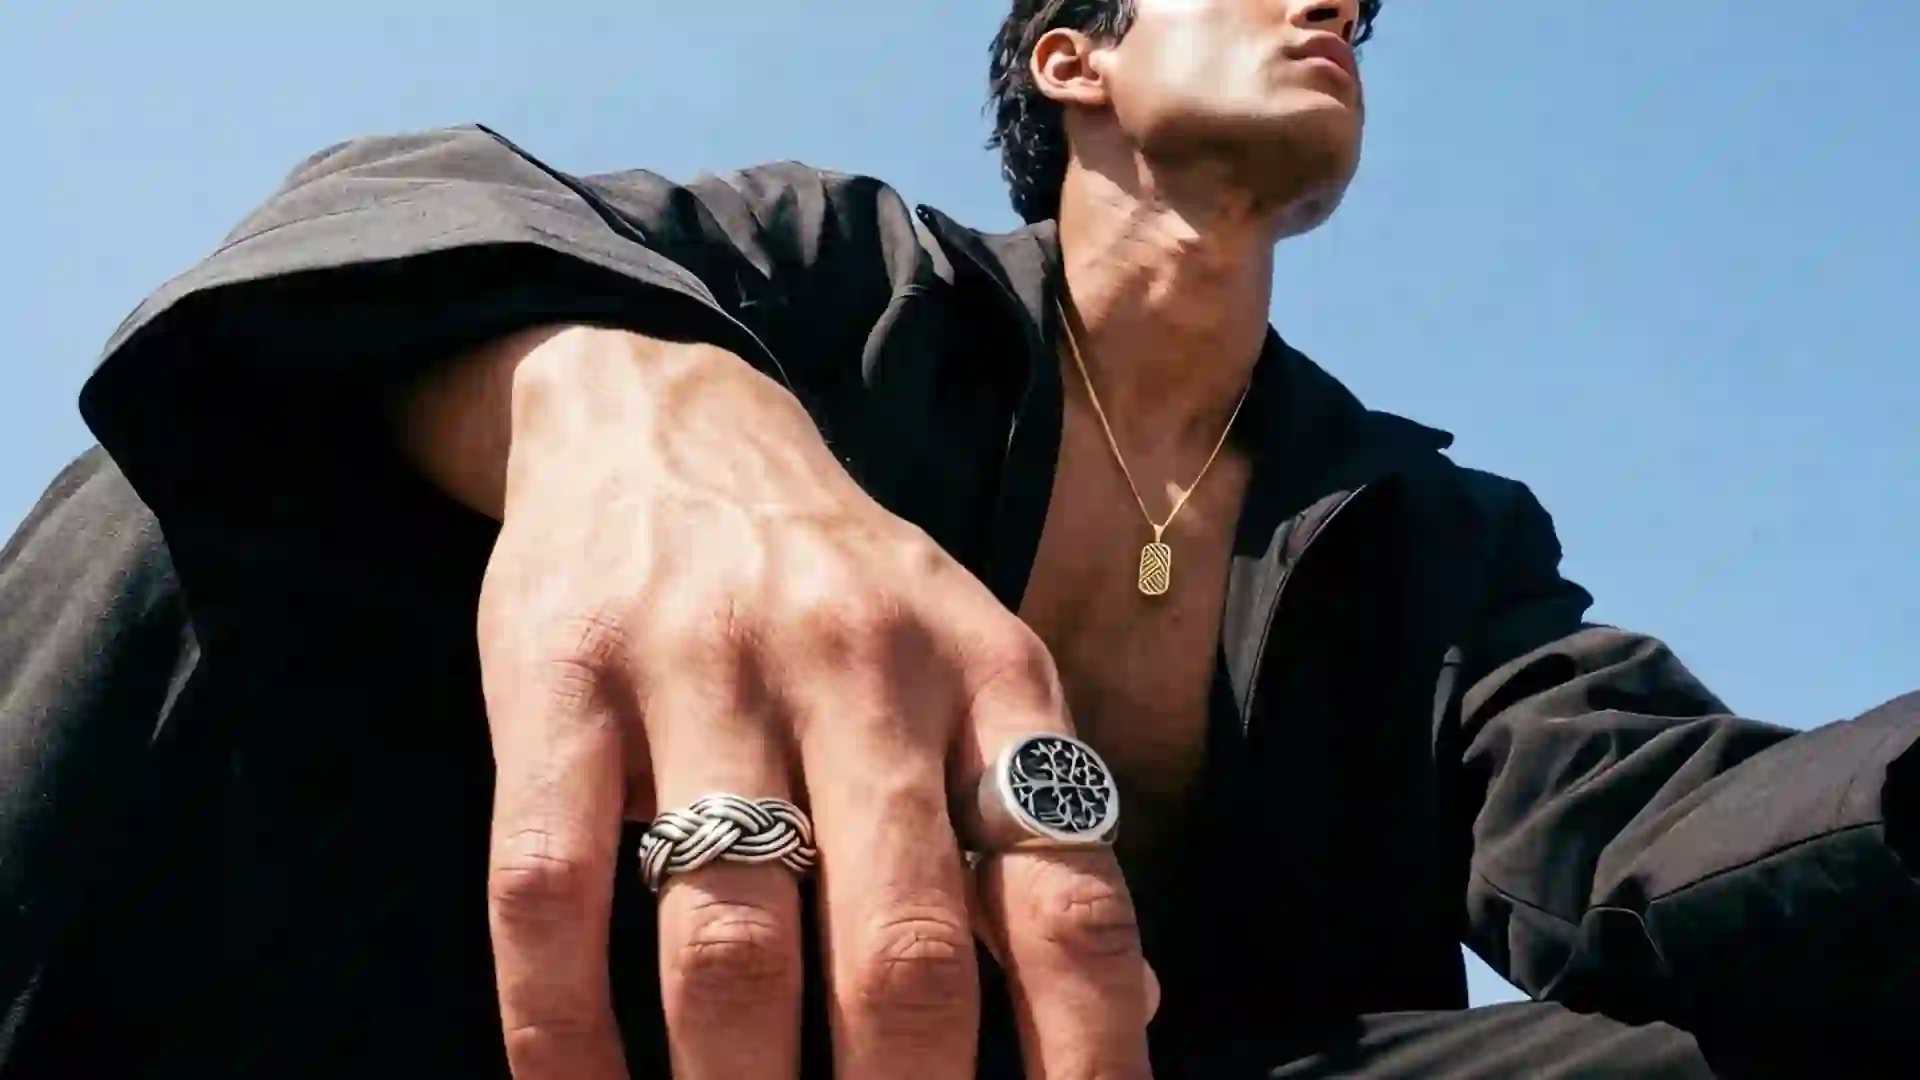
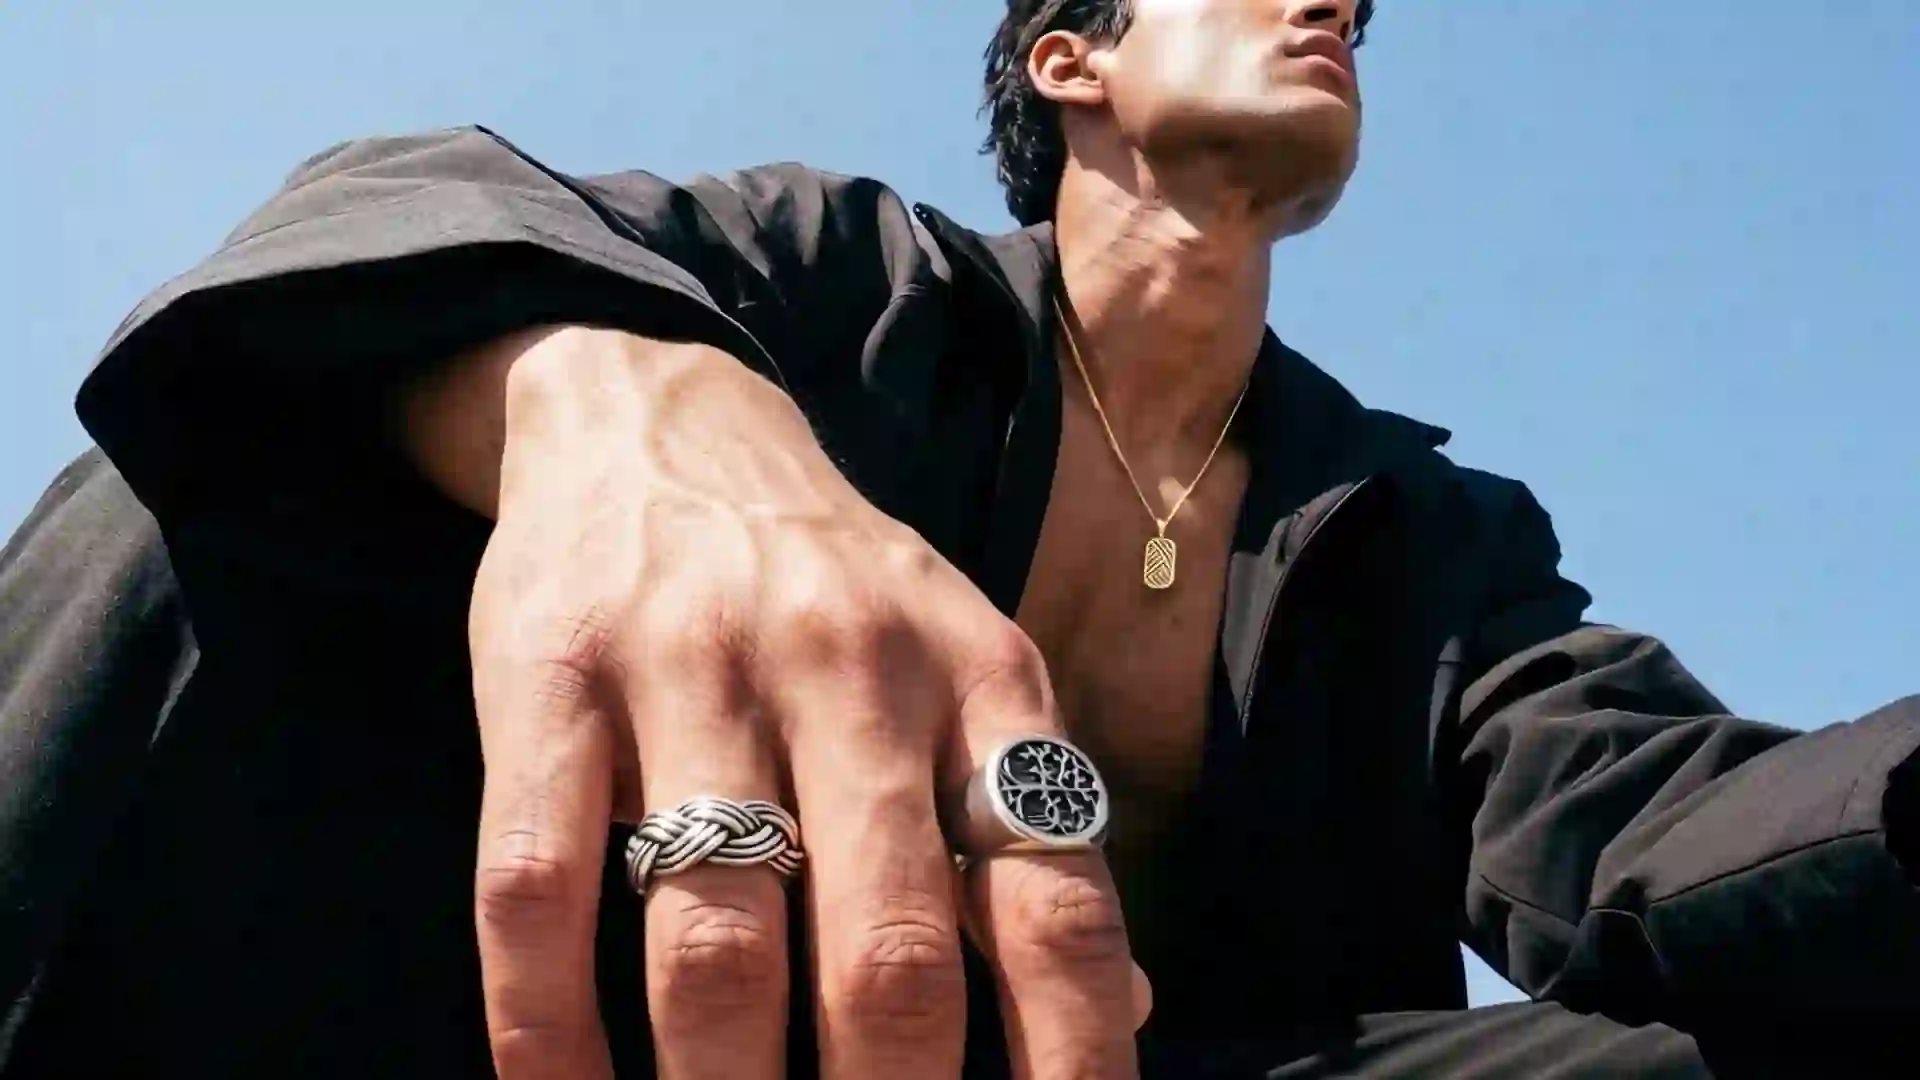
Optimize hero and strip videos: implement parallel blob preloading and memory resource sharing to fix Vercel freezing while maintaining premium CRF 18 quality

diff --git a/index.html b/index.html
@@ -35,6 +35,53 @@
   <link rel="preload" as="video" href="assets/hero_mobile.mp4" type="video/mp4" media="(max-width: 768px)">
   <link rel="preload" as="video" href="assets/hero_desktop.mp4" type="video/mp4" media="(min-width: 769px)">
 
+  <!-- Parallel Video Loader (Warms memory buffer before transition reveals) -->
+  <script>
+    (function() {
+      var canPlayWebm = false;
+      try {
+        var testVideo = document.createElement('video');
+        canPlayWebm = testVideo.canPlayType('video/webm; codecs="vp9"') === 'probably' || 
+                      testVideo.canPlayType('video/webm') === 'probably';
+      } catch (e) {}
+
+      var isMobile = window.innerWidth < 768;
+      
+      // Select correct background video source
+      var mainUrl = isMobile 
+        ? (canPlayWebm ? 'assets/hero_mobile.webm' : 'assets/hero_mobile.mp4')
+        : (canPlayWebm ? 'assets/hero_desktop.webm' : 'assets/hero_desktop.mp4');
+
+      window.heroVideoPromise = fetch(mainUrl)
+        .then(function(r) {
+          if (!r.ok) throw new Error();
+          return r.blob();
+        })
+        .then(function(b) {
+          return URL.createObjectURL(b);
+        })
+        .catch(function() {
+          return mainUrl;
+        });
+
+      // Select correct desktop strip video source
+      if (!isMobile) {
+        var stripUrl = canPlayWebm ? 'assets/hero_strip.webm' : 'assets/hero_strip.mp4';
+        window.heroStripPromise = fetch(stripUrl)
+          .then(function(r) {
+            if (!r.ok) throw new Error();
+            return r.blob();
+          })
+          .then(function(b) {
+            return URL.createObjectURL(b);
+          })
+          .catch(function() {
+            return stripUrl;
+          });
+      }
+    })();
+  </script>
+
   <style>
     .preloader { position: fixed; inset: 0; z-index: 9999; background: #000; display: flex; align-items: center; justify-content: center; will-change: transform; pointer-events: none; }
     .preloader__inner { display: flex; flex-direction: column; align-items: center; justify-content: center; }
@@ -292,8 +339,7 @@
             fetchpriority="high"
             poster="assets/hero_poster.webp"
           >
-            <source src="assets/hero_desktop.webm" type="video/webm">
-            <source src="assets/hero_desktop.mp4" type="video/mp4">
+            <!-- Dynamic source will be assigned by script.js -->
           </video>
           <div class="hero-video-overlay"></div>
         </div>

diff --git a/script.js b/script.js
@@ -1430,11 +1430,21 @@
   /* ─────────────────────────────────────────────────────────────
      18b. BACKGROUND VIDEOS (HERO & LIFESTYLE)
   ───────────────────────────────────────────────────────────── */
-  function initHeroVideo() {
+  async function initHeroVideo() {
     // 1. Hero background video
     const heroVideo = document.querySelector('.hero-bg-video');
     if (heroVideo) {
       enableFadeInOnPlay(heroVideo);
+
+      if (window.heroVideoPromise) {
+        try {
+          const videoSrc = await window.heroVideoPromise;
+          heroVideo.src = videoSrc;
+          heroVideo.load();
+        } catch (e) {
+          console.error('Failed to resolve hero video:', e);
+        }
+      }
 
       const heroSection = document.getElementById('hero');
       if (heroSection && 'IntersectionObserver' in window) {
@@ -1490,7 +1500,7 @@
      the complete frame. Strips then fade out handing off to the
      underlying hero video.
   ───────────────────────────────────────────────────────────── */
-  function initHeroTileReveal() {
+  async function initHeroTileReveal() {
     const stripsEl = document.getElementById('hero-strips');
     if (!stripsEl) return;
 
@@ -1538,12 +1548,19 @@
       return;
     }
 
-    // Desktop: 5 video strips — original behaviour, using optimised hero_desktop files
+    // Desktop: 5 video strips — original behaviour, using optimised hero_strip files
+    let stripVideoSrc = 'assets/hero_strip.mp4';
+    if (window.heroStripPromise) {
+      try {
+        stripVideoSrc = await window.heroStripPromise;
+      } catch (e) {
+        console.error('Failed to resolve hero strip video:', e);
+      }
+    }
+
     let html = '';
-    const videoSrcWebm = 'assets/hero_desktop.webm';
-    const videoSrcMp4  = 'assets/hero_desktop.mp4';
     for (let i = 0; i < 5; i++) {
-      html += `<div class="hstrip"><video class="hstrip__vid" autoplay muted loop playsinline preload="auto"><source src="${videoSrcWebm}" type="video/webm"><source src="${videoSrcMp4}" type="video/mp4"></video></div>`;
+      html += `<div class="hstrip"><video class="hstrip__vid" autoplay muted loop playsinline preload="auto" poster="assets/hero_poster.webp"><source src="${stripVideoSrc}" type="video/mp4"></video></div>`;
     }
     stripsEl.innerHTML = html;
 
@@ -1558,11 +1575,6 @@
     // Each strip is 20 vh tall; its video fills the full 100 vh hero.
     // CSS `top` anchors each video to show the CORRECT row when y=0.
     // We displace y so each strip shows the WRONG portion — image looks fragmented.
-    //   Strip 0: shift UP 3 strips → shows row 3 (60–80 vh)
-    //   Strip 1: shift UP 1 strip  → shows row 2 (40–60 vh)
-    //   Strip 2: shift DOWN 2 strips → shows row 0 (0–20 vh)
-    //   Strip 3: shift UP 1 strip  → shows row 4 (80–100 vh)
-    //   Strip 4: shift DOWN 3 strips → shows row 1 (20–40 vh)
     const sh = window.innerHeight * 0.2;
     const offsets = [-3 * sh, -sh, 2 * sh, -sh, 3 * sh];
     videos.forEach((v, i) => gsap.set(v, { y: offsets[i] }));
@@ -1603,6 +1615,12 @@
         duration: 0.5,
         ease: 'power1.inOut',
       }, '<');
+    }
+
+    // Safely auto-play the reveal timeline if the preloader finished while we were resolving the promise
+    const readyToReveal = (!isPreloaderActive || isPreloaderFinished);
+    if (readyToReveal && heroRevealTl && heroRevealTl.paused()) {
+      heroRevealTl.play();
     }
   }
 

diff --git a/backend/server.js b/backend/server.js
@@ -16,7 +16,7 @@ app.use((req, res, next) => {
     const decodePath = decodeURIComponent(req.path);
     const fullPath = path.join(FRONTEND, decodePath);
     if (!fs.existsSync(fullPath)) {
-      if (req.path.includes('hero_desktop') || req.path.includes('hero_mobile')) {
+      if (req.path.includes('hero_desktop') || req.path.includes('hero_mobile') || req.path.includes('hero_strip')) {
         req.url = '/assets/RADICAL%20WEBSITE%20VIDEO%20REBOOT.mp4';
       } else if (req.path.includes('full_bleed_optimized')) {
         req.url = '/assets/RADICAL%20WEBSITE%20VIDEO%20222222.mp4';